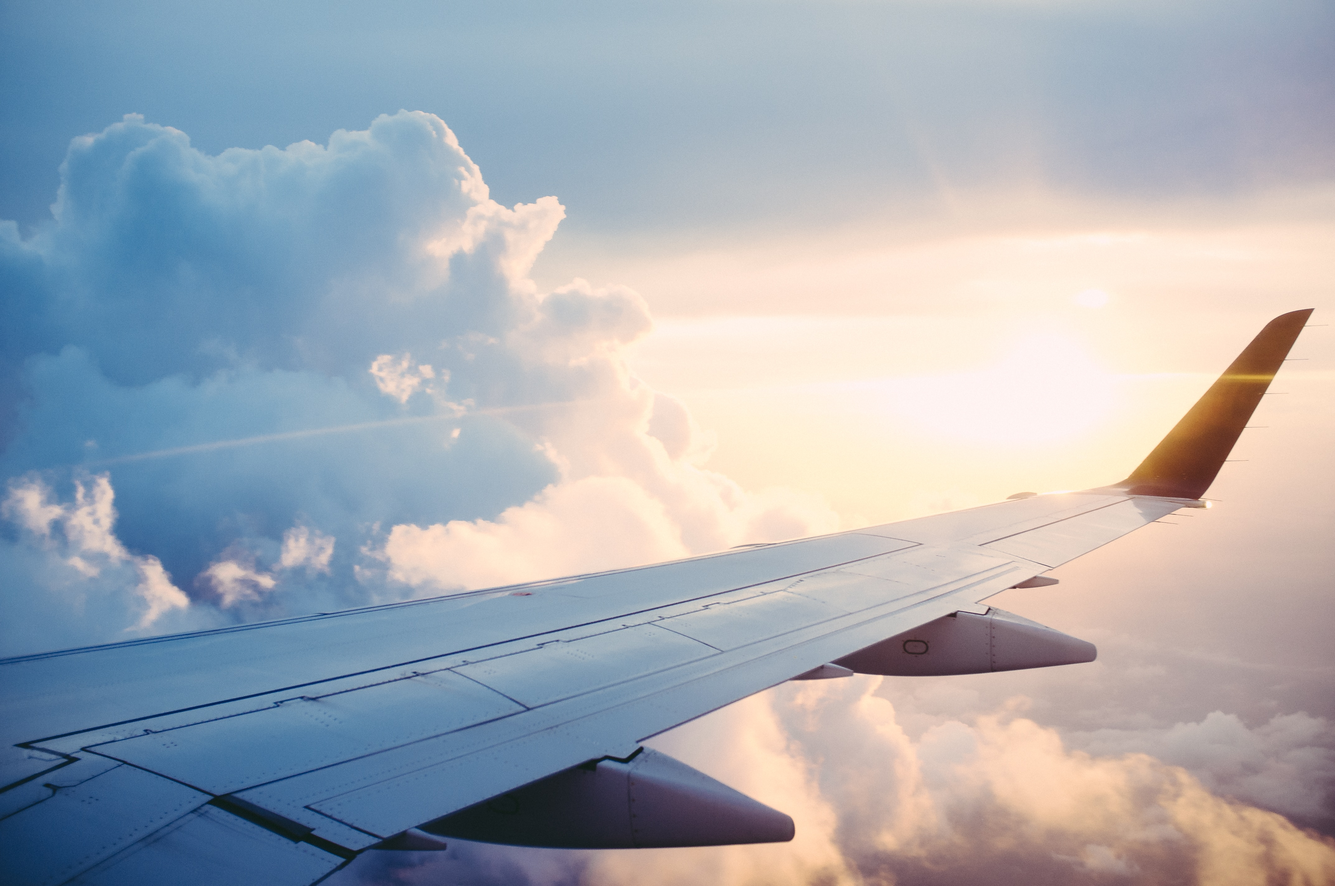
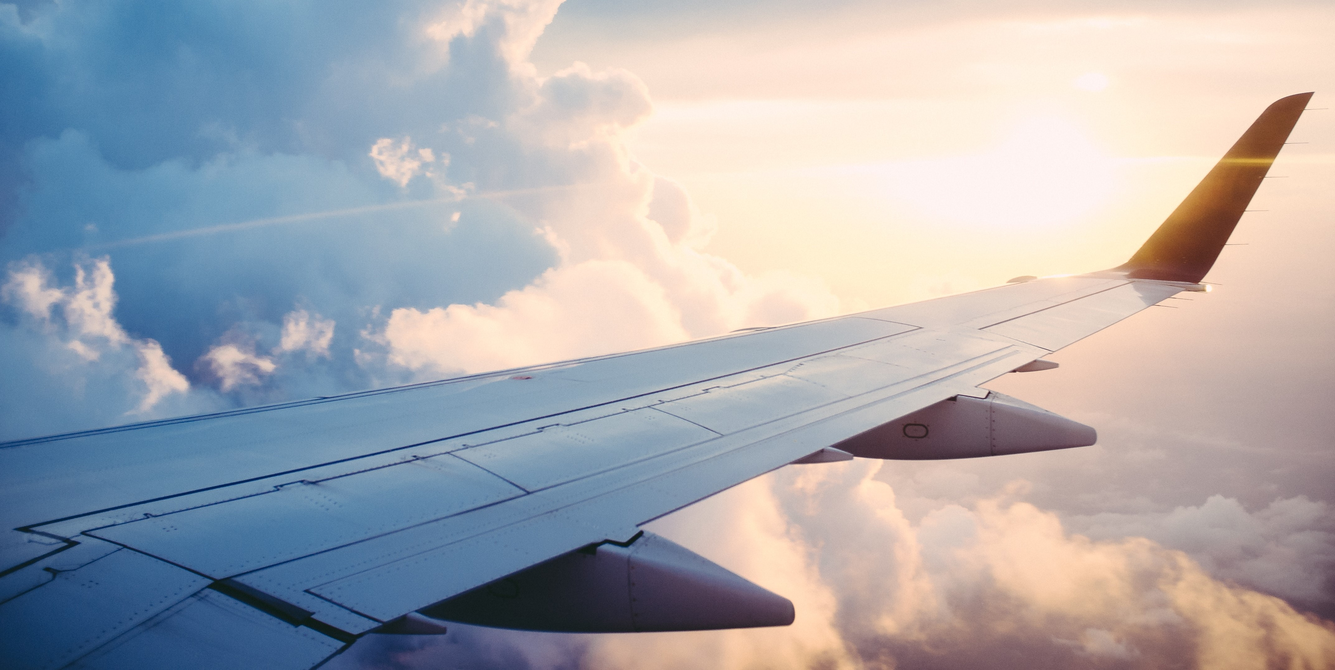
began formatting

diff --git a/index.html b/index.html
@@ -13,96 +13,118 @@
 
     <div class="container-fluid">
 
-        <div class="container">
+        <div class="container-fluid px-0 mx-0">
             <!-- Background image -->
-            <div class="img-fluid" style="
+            <div class="navbar img-fluid" style="
             background-image: url('./Assets/images/Header-image.jpg');
-            height: 50vh;"></div>
+            height: 50vh;
+            background-size: cover;">
+            </div>
             <!-- Background image -->
         </div>
 
-        <form id="search-form" class="form">
-            <!-- select location -->
+        <form id="search-form" class="form m-3 p-3" style="display: flex; align-items: center;">
+            
             <div class="form-inline form-group col-lg-12">
-                <h2 id="form-heading" class="mt-1 h3 form-label">
+                <h2 id="form-heading" class="mt-1 h3 form-label text-center">
                     Search for a Destination:
                 </h2>
                 <div class="input-group m-3 p-3">
-                    <div id="location-inputs" class="form-inline">
+
+                    <!-- select location -->
+                    <div id="location-inputs" class="form-inline p-3">
                         <input type="text" class="form-inline" id="start-location" placeholder="Start Location">
                         <input type="text" class="form-inline" id="destination" placeholder="Destination">
                     </div>
 
-                    <div id="date-inputs" class="form-inline">
+                    <!-- select dates -->
+                    <div id="date-inputs" class="form-inline p-3">
                         <input type="text" class="form-inline" id="start-date" placeholder="Departure Date">
                         <input type="text" class="form-inline" id="return-date" placeholder="Return Date">
                     </div>
 
-                    <button type="submit" class="btn btn-primary">Search</button>
+                    <!-- submit  -->
+                    <div id="search-submit" class="form-inline p-3">
+                        <button type="submit" class="btn btn-primary">Search</button>
+                    </div>
                 </div>
             </div>
 
-            <!-- select dates -->
+            
             <div class="form-inline form-group">
             </div>
         </form>
 
         <!-- main content  -->
-        <section class="row">
-            <div class="col-4">
-                <div class="card" id="weather-card">
-                    <div class="card-body">
-                        <h5 class="card-title">Weather</h5>
-                        <h6 class="card-subtitle mb-2 text-muted">Card subtitle</h6>
-                        <p class="card-text">Some quick example text to build on the card title and make up the bulk of the card's content.</p>
-                        <a href="#" class="card-link">Card link</a>
-                        <a href="#" class="card-link">Another link</a>
-                      </div>
-                </div>
-            </div>
+        <div>
+            <h3 class="text-center">Display search criteria here?</h3>
+            <br>
 
-            <div class="col-4">
-                <div class="card" id="flights-card">
-                    <div class="card-body">
-                        <h5 class="card-title">Flights</h5>
-                        <h6 class="card-subtitle mb-2 text-muted">Card subtitle</h6>
-                        <p class="card-text">Some quick example text to build on the card title and make up the bulk of the card's content.</p>
-                        <a href="#" class="card-link">Card link</a>
-                        <a href="#" class="card-link">Another link</a>
-                      </div>
+            <section class="row card-group m-3">
+                <div class="col-lg-4 h-100">
+                    <div class="card rounded-3 border-black" id="weather-card">
+                        <div class="card-body">
+                            <h5 class="card-title">Weather</h5>
+                            <h6 class="card-subtitle mb-2 text-muted">Card subtitle</h6>
+                            <p class="card-text">Some quick example text to build on the card title and make up the bulk
+                                of
+                                the card's content.</p>
+                            <a href="#" class="card-link">Card link</a>
+                            <a href="#" class="card-link">Another link</a>
+                        </div>
+                    </div>
                 </div>
 
-                <div class="card" id="currency-card">
-                    <div class="card-body">
-                        <h5 class="card-title">Currency</h5>
-                        <h6 class="card-subtitle mb-2 text-muted">Card subtitle</h6>
-                        <p class="card-text">Some quick example text to build on the card title and make up the bulk of the card's content.</p>
-                        <a href="#" class="card-link">Card link</a>
-                        <a href="#" class="card-link">Another link</a>
-                      </div>
+                <div class="card border-white col-lg-4 h-100">
+
+                    <div class="card rounded-3 border-black mb-3" id="flights-card">
+                        <div class="card-body">
+                            <h5 class="card-title">Flights</h5>
+                            <h6 class="card-subtitle mb-2 text-muted">Card subtitle</h6>
+                            <p class="card-text">Some quick example text to build on the card title and make up the bulk
+                                of
+                                the card's content.</p>
+                            <a href="#" class="card-link">Card link</a>
+                            <a href="#" class="card-link">Another link</a>
+                        </div>
+                    </div>
+
+                    <div class="card rounded-3 border-black mt-3" id="currency-card">
+                        <div class="card-body">
+                            <h5 class="card-title">Currency</h5>
+                            <h6 class="card-subtitle mb-2 text-muted">Card subtitle</h6>
+                            <p class="card-text">Some quick example text to build on the card title and make up the bulk
+                                of
+                                the card's content.</p>
+                            <a href="#" class="card-link">Card link</a>
+                            <a href="#" class="card-link">Another link</a>
+                        </div>
+                    </div>
+
                 </div>
-            </div>
 
-            <div class="col-4">
-                <div class="card" id="itinerary-card">
-                    <div class="card-body">
-                        <h5 class="card-title">My Itinerary</h5>
-                        <h6 class="card-subtitle mb-2 text-muted">Card subtitle</h6>
-                        <p class="card-text">Some quick example text to build on the card title and make up the bulk of the card's content.</p>
-                        <a href="#" class="card-link">Card link</a>
-                        <a href="#" class="card-link">Another link</a>
-                      </div>
+                <div class="col-lg-4 h-100">
+                    <div class="card rounded-3 border-black" id="itinerary-card">
+                        <div class="card-body">
+                            <h5 class="card-title">My Itinerary</h5>
+                            <h6 class="card-subtitle mb-2 text-muted">Card subtitle</h6>
+                            <p class="card-text">Some quick example text to build on the card title and make up the bulk
+                                of
+                                the card's content.</p>
+                            <a href="#" class="card-link">Card link</a>
+                            <a href="#" class="card-link">Another link</a>
+                        </div>
+                    </div>
                 </div>
-            </div>
 
 
-        </section>
-
+            </section>
+        </div>
 
     </div>
     <!-- footer  -->
     <footer>
-        <div class="container">
+        <div class="container m-3 p-3">
             <p>&copy; Your Website 2020. All Rights Reserved.</p>
 
         </div>
